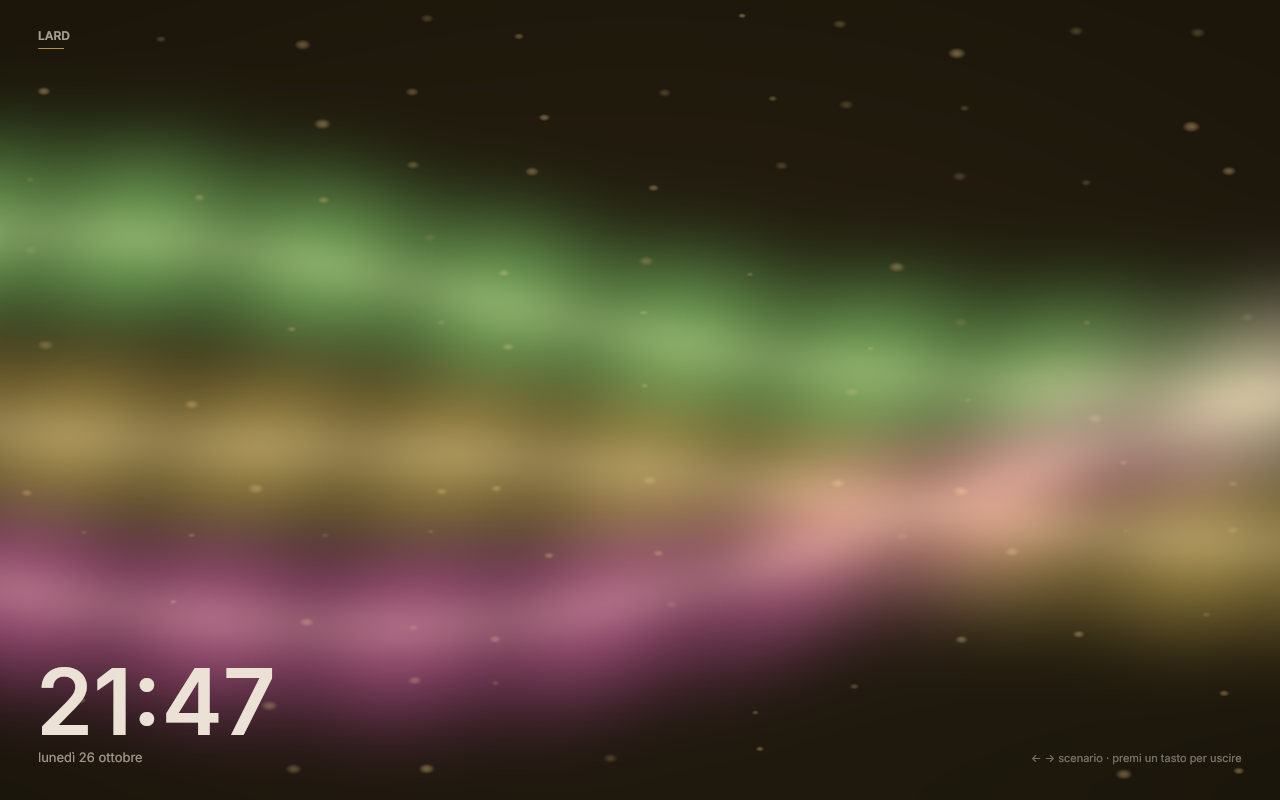
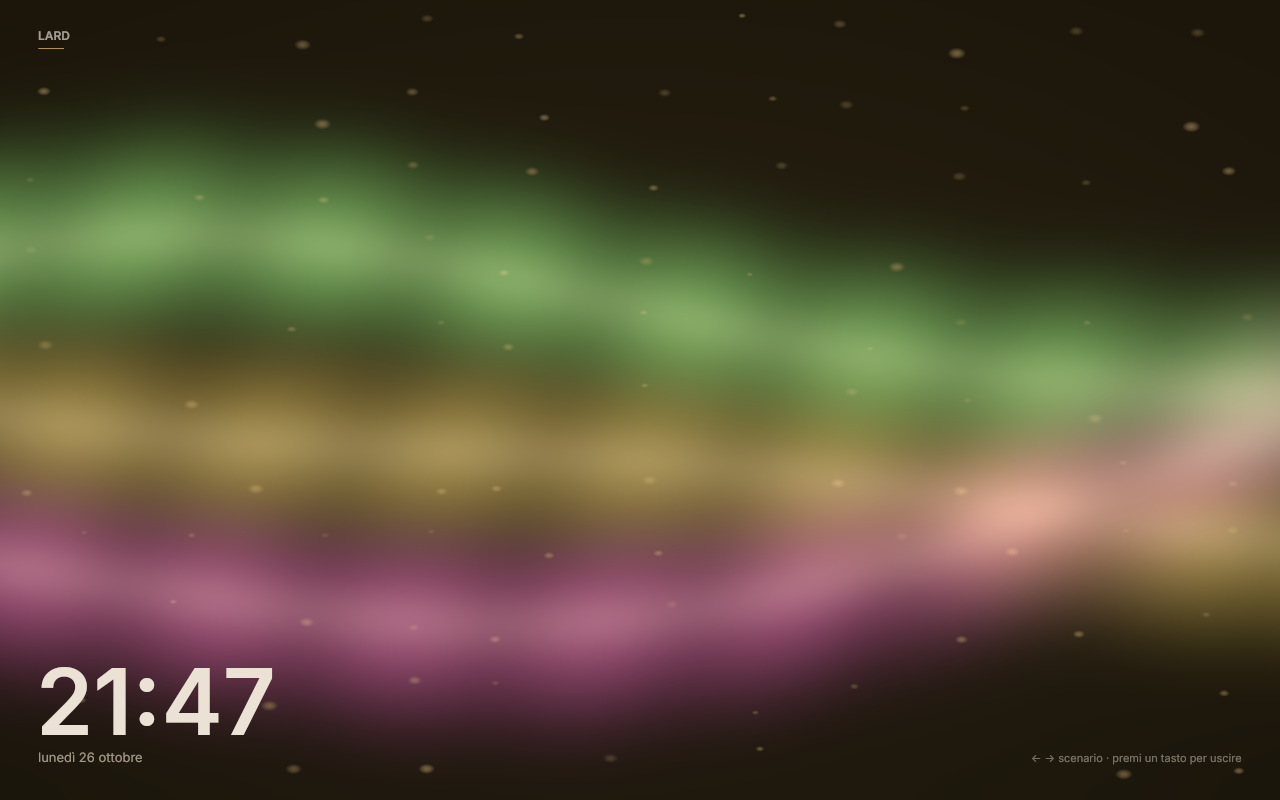
fix(lock): PAM che diceva sempre password errata, sfondo nitido dietro la card
- Il servizio PAM configurato poteva non esistere (sul box c'era ancora
  "niri-suite-greeter", mai installato): pam_start falliva e ogni tentativo
  risultava sbagliato. Ora `resolve_pam_service` sceglie il primo servizio
  realmente presente fra quello configurato, `lard-greeter` e `login`, con un
  warning se ripiega. Verificato: la lock si sblocca con la password.
- Lo sfondo della lock screen ha una texture dedicata (512x288) invece della
  cella 128 px dell'atlante icone: era sgranato. Viene disegnato *prima* dei
  rettangoli (le immagini normali sono disegnate dopo, e coprivano la card:
  da lì le input box invisibili). Upload una volta sola.
- I warning "Failed to parse marker-start value: 'none'" di resvg/usvg sono
  silenziati nel filtro di log (sono rumore di parsing SVG, non errori LARD).

diff --git a/crates/lard-render/src/renderer.rs b/crates/lard-render/src/renderer.rs
@@ -4,7 +4,7 @@ use crate::text::physical_style;
 use crate::text::{TextEngine, align_offset};
 use anyhow::Result;
 use bytemuck::{Pod, Zeroable};
-use lard_core::Point;
+use lard_core::{Point, Rect};
 use lard_core::theme::FontConfig;
 use std::collections::HashMap;
 
@@ -245,6 +245,10 @@ pub struct Renderer {
     rects: Vec<RectGpu>,
     glyphs: Vec<TextGpu>,
     images: Vec<ImageGpu>,
+    /// Wallpaper texture (lock screen), independent of the icon atlas.
+    wallpaper: Option<WallpaperTexture>,
+    /// Full-screen quad of the wallpaper, if this frame draws one.
+    wallpaper_quad: Option<Rect>,
     rect_buffer: wgpu::Buffer,
     rect_capacity: u64,
     text_buffer: wgpu::Buffer,
@@ -412,6 +416,8 @@ impl Renderer {
             rects: Vec::with_capacity(64),
             glyphs: Vec::with_capacity(256),
             images: Vec::with_capacity(16),
+            wallpaper: None,
+            wallpaper_quad: None,
             rect_buffer: gpu.create_vertex_buffer("rect-instances", 4),
             rect_capacity: 4,
             text_buffer: gpu.create_vertex_buffer("text-instances", 4),
@@ -611,23 +617,32 @@ impl Renderer {
             // mostly this shader, and an upscaled buffer looked visibly soft.
             self.write_fluid_uniform(&fluid, screen);
         }
+        self.wallpaper_quad = None;
+        if let Some((width, height, rgba)) = &scene.wallpaper_data {
+            let size = (*width, *height);
+            if self
+                .wallpaper
+                .as_ref()
+                .is_none_or(|wallpaper| wallpaper.size != size)
+            {
+                self.wallpaper = Some(WallpaperTexture::new(&self.device, &self.queue, &self.atlas_layout, size, rgba));
+            }
+        }
+        if let (Some(rect), Some(_)) = (scene.wallpaper, &self.wallpaper) {
+            let physical = rect.scaled(scale);
+            self.images.push(ImageGpu {
+                rect: [physical.x, physical.y, physical.w, physical.h],
+                uv: [0.0, 0.0, 1.0, 1.0],
+                radii: [0.0; 4],
+                alpha: [1.0, 0.0, 0.0, 0.0],
+            });
+            self.wallpaper_quad = Some(rect);
+        }
         for cmd in &scene.images {
             if !self.image_atlas.has(cmd.id) {
                 continue;
             }
-            let physical = cmd.rect.scaled(scale);
-            let uv = self.image_atlas.uv(cmd.id);
-            self.images.push(ImageGpu {
-                rect: [physical.x, physical.y, physical.w, physical.h],
-                uv,
-                radii: [
-                    cmd.corners.tl * scale,
-                    cmd.corners.tr * scale,
-                    cmd.corners.br * scale,
-                    cmd.corners.bl * scale,
-                ],
-                alpha: [1.0, 0.0, 0.0, 0.0],
-            });
+            self.images.push(image_instance(cmd, &self.image_atlas, scale));
         }
 
         let globals = [screen_w as f32, screen_h as f32, 0.0, 0.0];
@@ -769,6 +784,19 @@ impl Renderer {
                 draw_calls += 1;
             }
 
+            // The wallpaper is the first instance: drawn before the rects so
+            // the card and the panels stay on top of it.
+            if self.wallpaper_quad.is_some()
+                && let Some(wallpaper) = &self.wallpaper
+            {
+                pass.set_pipeline(&pipelines.image);
+                pass.set_bind_group(0, &self.globals_bind_group, &[]);
+                pass.set_bind_group(1, &wallpaper.bind_group, &[]);
+                pass.set_vertex_buffer(0, self.image_buffer.slice(..));
+                pass.draw(0..6, 0..1);
+                draw_calls += 1;
+            }
+
             if !self.rects.is_empty() {
                 pass.set_pipeline(&pipelines.rect);
                 pass.set_bind_group(0, &self.globals_bind_group, &[]);
@@ -777,12 +805,15 @@ impl Renderer {
                 draw_calls += 1;
             }
 
-            if !self.images.is_empty() {
+            if self.images.len() > usize::from(self.wallpaper_quad.is_some()) {
                 pass.set_pipeline(&pipelines.image);
                 pass.set_bind_group(0, &self.globals_bind_group, &[]);
                 pass.set_bind_group(1, &self.image_atlas.bind_group, &[]);
                 pass.set_vertex_buffer(0, self.image_buffer.slice(..));
-                pass.draw(0..6, 0..self.images.len() as u32);
+                pass.draw(
+                    0..6,
+                    u32::from(self.wallpaper_quad.is_some())..self.images.len() as u32,
+                );
                 draw_calls += 1;
             }
             if !self.glyphs.is_empty() {
@@ -981,6 +1012,105 @@ mod tests {
         // Fractional scales snap in physical pixels too.
         let (x, y) = run_origin(Point::new(10.0, 10.0), 1.5, TextAlign::Left, None, 10.0);
         assert_eq!((x, y), (15.0, 15.0));
+    }
+}
+
+/// Standalone texture for the lock screen wallpaper.
+struct WallpaperTexture {
+    size: (u32, u32),
+    _texture: wgpu::Texture,
+    bind_group: wgpu::BindGroup,
+}
+
+impl WallpaperTexture {
+    fn new(
+        device: &wgpu::Device,
+        queue: &wgpu::Queue,
+        layout: &wgpu::BindGroupLayout,
+        size: (u32, u32),
+        rgba: &[u8],
+    ) -> Self {
+        let texture = device.create_texture(&wgpu::TextureDescriptor {
+            label: Some("wallpaper"),
+            size: wgpu::Extent3d {
+                width: size.0.max(1),
+                height: size.1.max(1),
+                depth_or_array_layers: 1,
+            },
+            mip_level_count: 1,
+            sample_count: 1,
+            dimension: wgpu::TextureDimension::D2,
+            format: wgpu::TextureFormat::Rgba8UnormSrgb,
+            usage: wgpu::TextureUsages::TEXTURE_BINDING | wgpu::TextureUsages::COPY_DST,
+            view_formats: &[],
+        });
+        queue.write_texture(
+            wgpu::TexelCopyTextureInfo {
+                texture: &texture,
+                mip_level: 0,
+                origin: wgpu::Origin3d::ZERO,
+                aspect: wgpu::TextureAspect::All,
+            },
+            rgba,
+            wgpu::TexelCopyBufferLayout {
+                offset: 0,
+                bytes_per_row: Some(size.0 * 4),
+                rows_per_image: Some(size.1),
+            },
+            wgpu::Extent3d {
+                width: size.0.max(1),
+                height: size.1.max(1),
+                depth_or_array_layers: 1,
+            },
+        );
+        let view = texture.create_view(&wgpu::TextureViewDescriptor::default());
+        let sampler = device.create_sampler(&wgpu::SamplerDescriptor {
+            label: Some("wallpaper-sampler"),
+            address_mode_u: wgpu::AddressMode::ClampToEdge,
+            address_mode_v: wgpu::AddressMode::ClampToEdge,
+            mag_filter: wgpu::FilterMode::Linear,
+            min_filter: wgpu::FilterMode::Linear,
+            ..Default::default()
+        });
+        let bind_group = device.create_bind_group(&wgpu::BindGroupDescriptor {
+            label: Some("wallpaper-bind-group"),
+            layout,
+            entries: &[
+                wgpu::BindGroupEntry {
+                    binding: 0,
+                    resource: wgpu::BindingResource::TextureView(&view),
+                },
+                wgpu::BindGroupEntry {
+                    binding: 1,
+                    resource: wgpu::BindingResource::Sampler(&sampler),
+                },
+            ],
+        });
+        Self {
+            size,
+            _texture: texture,
+            bind_group,
+        }
+    }
+}
+
+/// GPU instance of an image command, scaled to physical pixels.
+fn image_instance(
+    cmd: &crate::scene::ImageCmd,
+    atlas: &ImageAtlas,
+    scale: f32,
+) -> ImageGpu {
+    let physical = cmd.rect.scaled(scale);
+    ImageGpu {
+        rect: [physical.x, physical.y, physical.w, physical.h],
+        uv: atlas.uv(cmd.id),
+        radii: [
+            cmd.corners.tl * scale,
+            cmd.corners.tr * scale,
+            cmd.corners.br * scale,
+            cmd.corners.bl * scale,
+        ],
+        alpha: [1.0, 0.0, 0.0, 0.0],
     }
 }
 

diff --git a/crates/lard-greeter/src/ui.rs b/crates/lard-greeter/src/ui.rs
@@ -79,25 +79,27 @@ pub struct GreeterView {
     cursor: Option<Point>,
     clock: String,
     date: String,
-    /// Wallpaper shown behind the card: id in the image atlas + RGBA thumbnail.
-    wallpaper: Option<(u32, Vec<u8>)>,
+    /// Wallpaper pixels for the backdrop, and whether they were handed to the
+    /// renderer already (the texture is uploaded only once).
+    wallpaper: Option<(u32, u32, Vec<u8>)>,
+    wallpaper_uploaded: bool,
 }
 
 impl GreeterView {
     /// Decode the desktop wallpaper for the lock screen backdrop. Done once, at
     /// start-up: the lock surface must not block on a 4K JPEG later.
     pub fn load_wallpaper(&mut self, path: &std::path::Path) {
-        const ID: u32 = 0x4C4F_434B;
-        // The image atlas cell is 128x128: anything larger would be cut and
-        // its rows misread (visible as horizontal stripes).
-        const W: u32 = 128;
-        const H: u32 = 72;
+        // Its own texture, not the icon atlas: enough resolution to stay
+        // readable on a 1600px-wide screen, still cheap to blur.
+        const W: u32 = 512;
+        const H: u32 = 288;
         let Ok(image) = image::open(path) else {
             self.wallpaper = None;
             return;
         };
         let small = image.resize_exact(W, H, image::imageops::FilterType::Triangle);
-        self.wallpaper = Some((ID, small.to_rgba8().into_raw()));
+        self.wallpaper = Some((W, H, small.to_rgba8().into_raw()));
+        self.wallpaper_uploaded = false;
     }
 
     pub fn new(mode: AuthMode, config: &GreeterConfig, reduce_motion: bool) -> Self {
@@ -147,6 +149,7 @@ impl GreeterView {
             clock: String::new(),
             date: String::new(),
             wallpaper: None,
+            wallpaper_uploaded: false,
         }
     }
 
@@ -443,10 +446,14 @@ impl GreeterView {
         let background_alpha = if lock { 1.0 } else { fade };
         let mut drew_wallpaper = false;
         if wallpaper.background == lard_core::theme::LockBackground::Wallpaper
-            && let Some((id, rgba)) = &self.wallpaper
+            && let Some((width, height, rgba)) = &self.wallpaper
         {
-            scene.upload_image(*id, 128, 72, rgba.clone());
-            scene.image(Rect::new(0.0, 0.0, size.w, size.h), *id, 0.0);
+            if !self.wallpaper_uploaded {
+                scene.wallpaper_upload(*width, *height, rgba.clone());
+                self.wallpaper_uploaded = true;
+            }
+            // Behind everything: a normal image would be painted over the card.
+            scene.wallpaper(Rect::new(0.0, 0.0, size.w, size.h));
             scene.rect(
                 Rect::new(0.0, 0.0, size.w, size.h),
                 theme

diff --git a/crates/lard-greeter/src/auth.rs b/crates/lard-greeter/src/auth.rs
@@ -39,6 +39,29 @@ pub enum AuthEvent {
     Failure { message: String },
 }
 
+/// First existing `/etc/pam.d` service among the preferred one, the one LARD
+/// installs and the system login stack.
+fn resolve_pam_service(preferred: &str) -> String {
+    let dir = std::path::Path::new("/etc/pam.d");
+    let candidates = [preferred, "lard-greeter", "login"];
+    for service in candidates {
+        if service.is_empty() {
+            continue;
+        }
+        if dir.join(service).exists() {
+            if service != preferred {
+                tracing::warn!(
+                    preferred,
+                    service,
+                    "PAM service not installed; using the fallback"
+                );
+            }
+            return service.to_string();
+        }
+    }
+    preferred.to_string()
+}
+
 pub struct AuthJob {
     pub username: String,
     pub password: Zeroizing<String>,
@@ -56,7 +79,10 @@ impl AuthController {
         config: &GreeterConfig,
         ui: Sender<AuthEvent>,
     ) -> Result<Self, String> {
-        let service = config.pam_service.clone();
+        // A missing PAM file makes every attempt fail with a configuration
+        // error. Fall back to the service this project installs, then to the
+        // system login stack.
+        let service = resolve_pam_service(&config.pam_service);
         let allow_empty = config.allow_empty_password;
         let backend = match mode {
             AuthMode::Lock => AuthBackend::Pam,

diff --git a/crates/lard-render/src/scene.rs b/crates/lard-render/src/scene.rs
@@ -241,6 +241,12 @@ pub struct Scene {
     pub rects: Vec<RectCmd>,
     pub texts: Vec<TextCmd>,
     pub images: Vec<ImageCmd>,
+    /// Full-screen wallpaper drawn behind everything (lock screen). It has a
+    /// dedicated texture, so it is not limited by the icon atlas cell.
+    pub wallpaper: Option<Rect>,
+    /// RGBA of the wallpaper, sent once: the renderer re-uploads only when the
+    /// size changes.
+    pub wallpaper_data: Option<(u32, u32, Vec<u8>)>,
     pub image_uploads: Vec<ImageUpload>,
     /// Animated fluid drawn behind everything else (screensaver).
     pub fluid: Option<Fluid>,
@@ -260,6 +266,7 @@ impl Scene {
         self.rects.clear();
         self.texts.clear();
         self.images.clear();
+        self.wallpaper = None;
         self.image_uploads.clear();
         self.fluid = None;
         self.arena.clear();
@@ -367,6 +374,16 @@ impl Scene {
     }
 
     /// Draw a rounded image quad referencing a previously uploaded image.
+    /// Draw the wallpaper behind every other command.
+    pub fn wallpaper(&mut self, rect: Rect) {
+        self.wallpaper = Some(rect);
+    }
+
+    /// Hand the wallpaper pixels to the renderer (uploaded once).
+    pub fn wallpaper_upload(&mut self, width: u32, height: u32, rgba: Vec<u8>) {
+        self.wallpaper_data = Some((width, height, rgba));
+    }
+
     pub fn image(&mut self, rect: Rect, id: u32, radius: f32) {
         self.images.push(ImageCmd {
             rect,

diff --git a/crates/lard/src/main.rs b/crates/lard/src/main.rs
@@ -58,7 +58,9 @@ fn run() -> Result<()> {
 
 fn init_logging() {
     let filter = EnvFilter::try_from_default_env().unwrap_or_else(|_| {
-        EnvFilter::new("info,lard_wayland=info,lard_render=warn,lard_services=info")
+        EnvFilter::new(
+            "info,lard_wayland=info,lard_render=warn,lard_services=info,usvg=error,resvg=error",
+        )
     });
     let _ = tracing_subscriber::fmt()
         .with_env_filter(filter)
